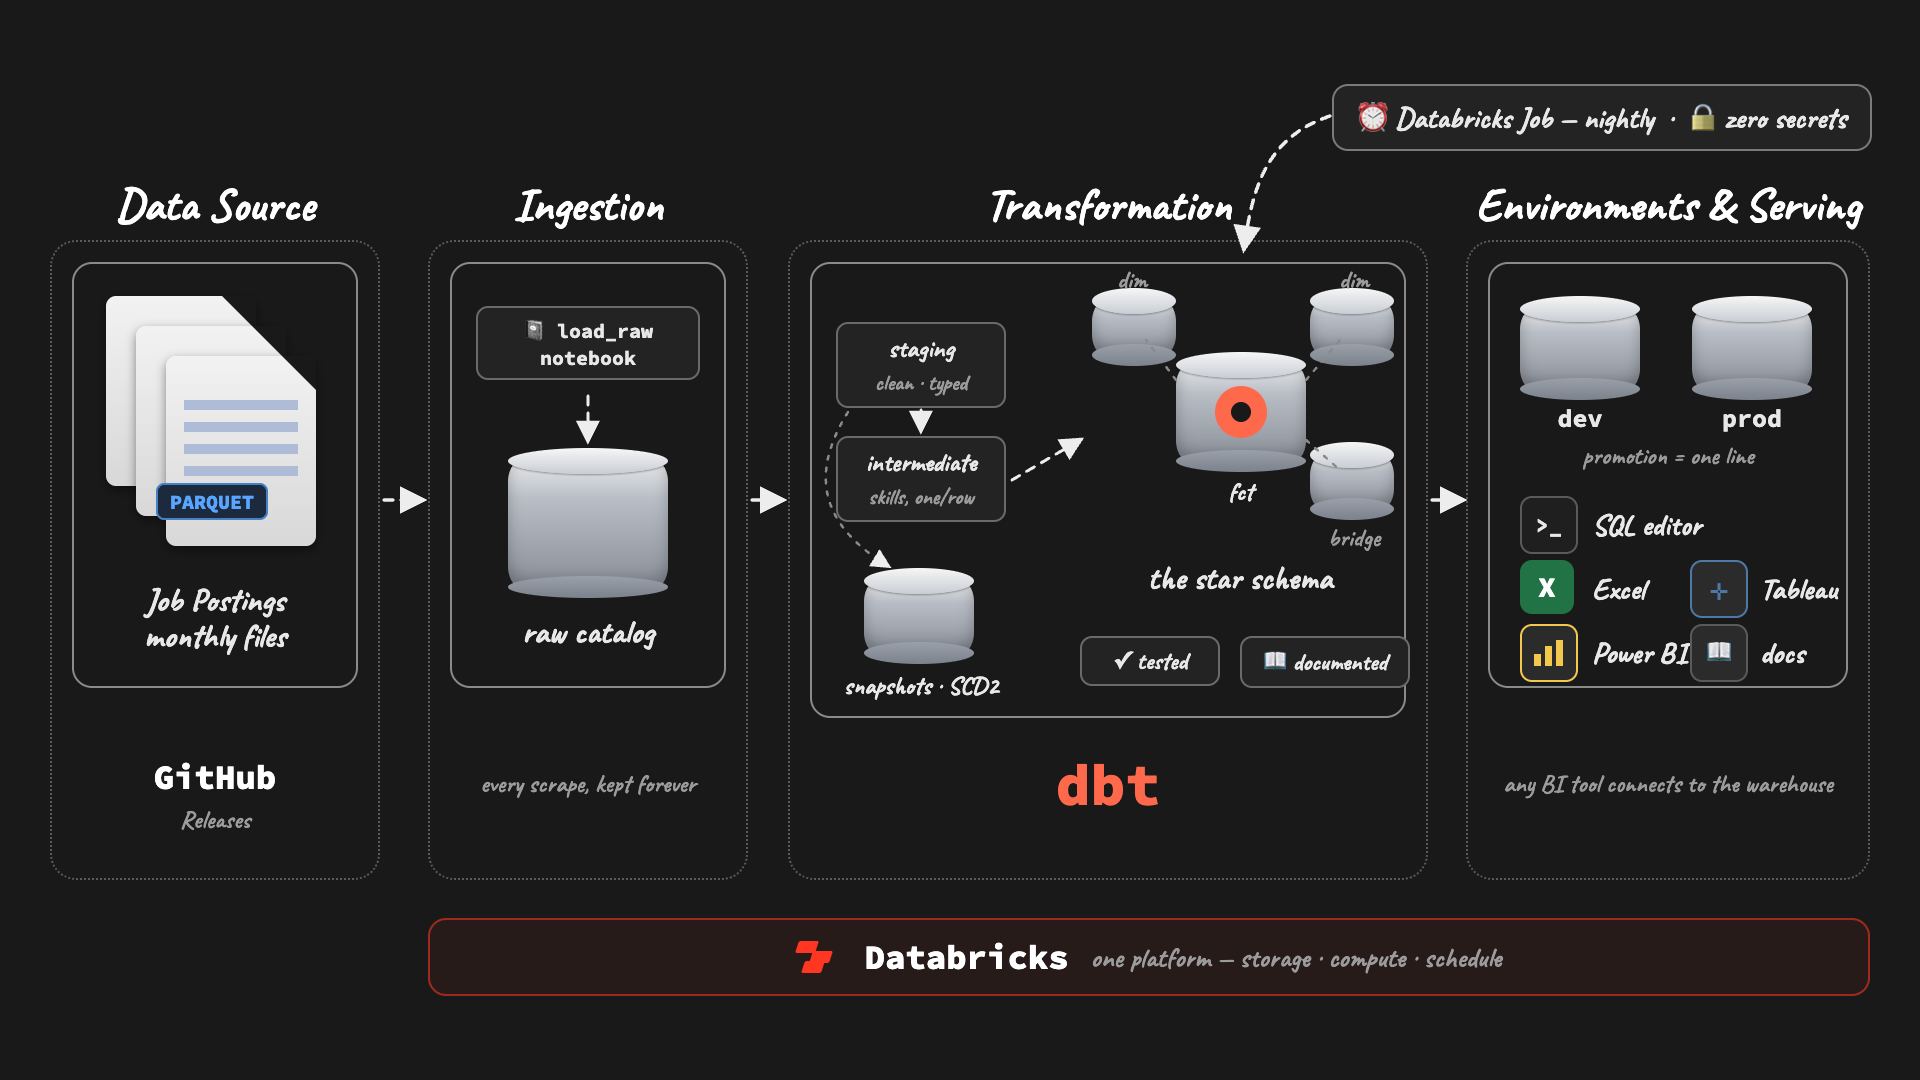
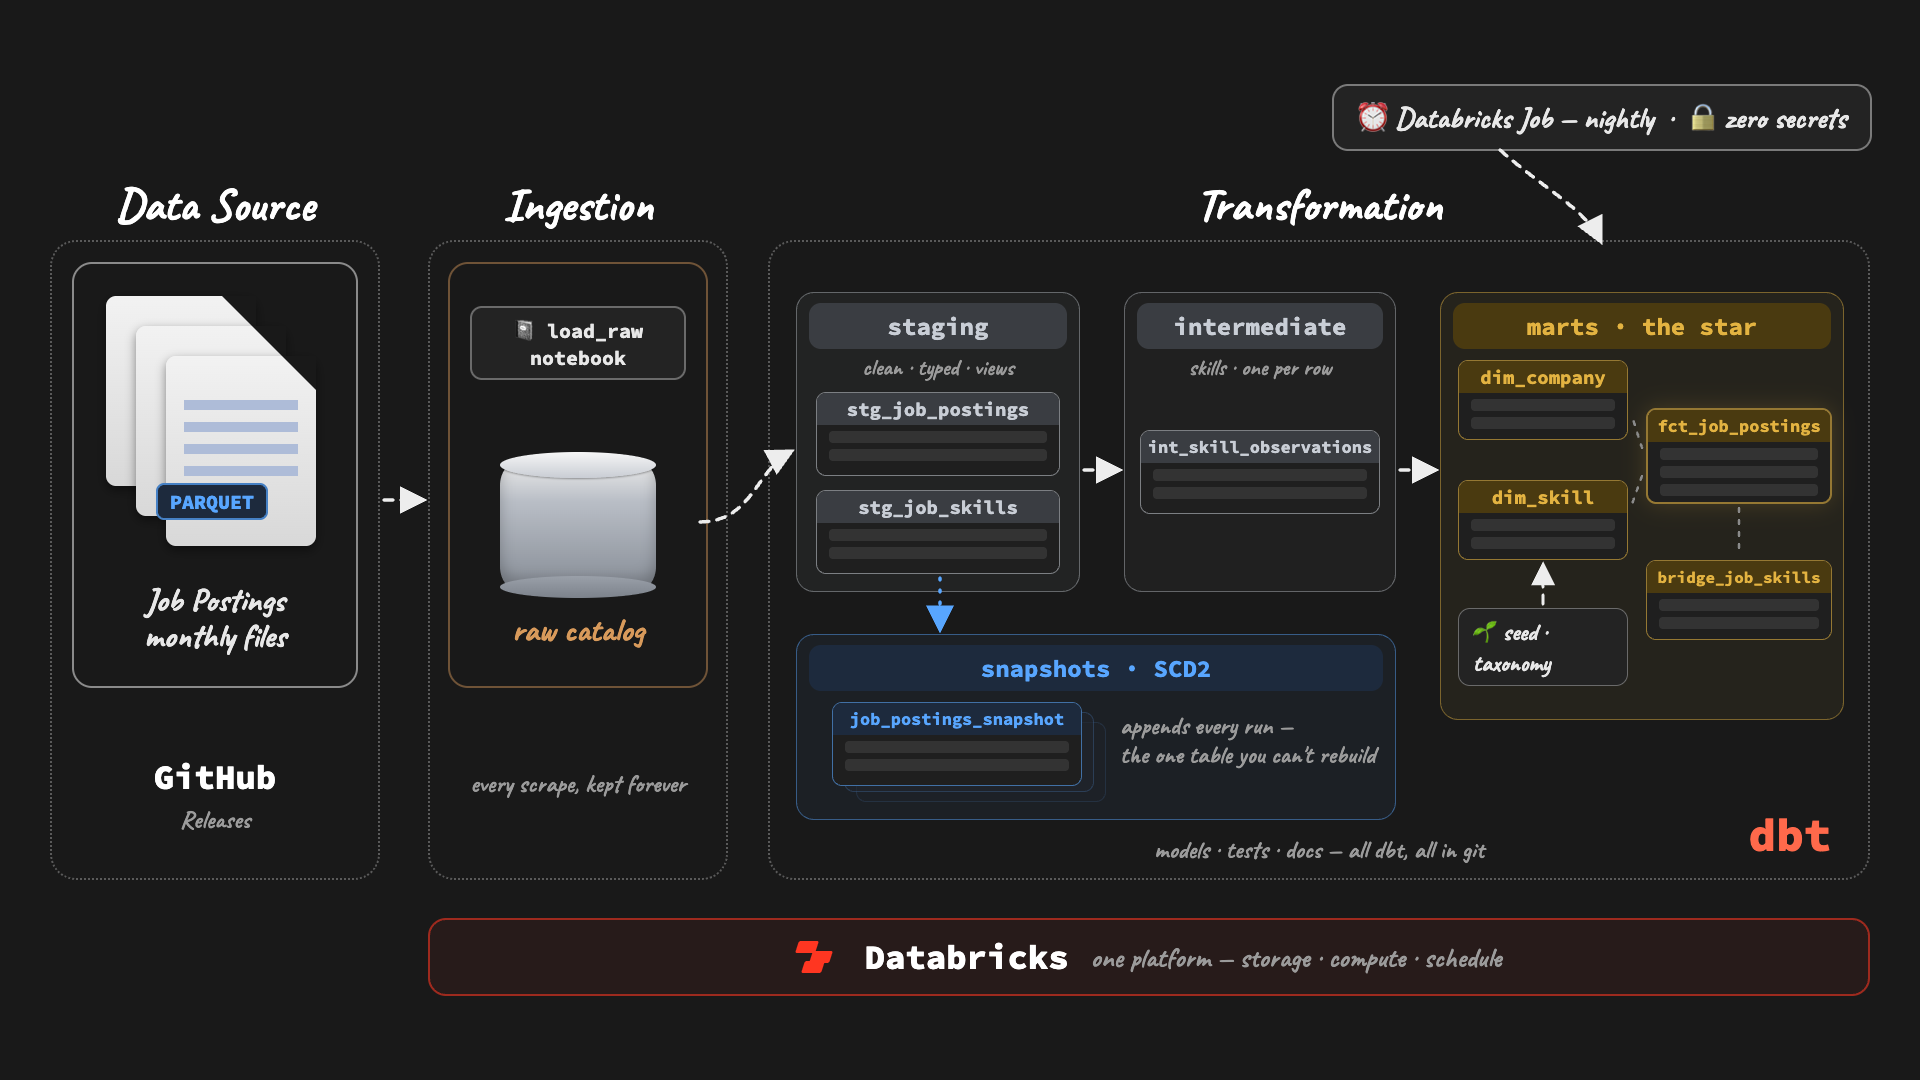
P2 pipeline diagram v2 (Luke): serving zone cut, Transformation built out — three medallion-hinted tier boxes (silver staging/int, gold marts w/ drawn star + seed→dim_skill), TABLE glyphs replace cylinders (cylinder = raw catalog only), snapshots strip w/ stacked glyph + blue history arrow

diff --git a/resources/diagrams/4.02_p2_pipeline.html b/resources/diagrams/4.02_p2_pipeline.html
@@ -9,7 +9,10 @@
   :root{
     --bg:#191919; --line:#4a4a4a;
     --text:#E8E8E8; --muted:#9B9B9B; --faint:#6B6B6B;
-    --blue:#58A6FF; --dbt:#FF694B; --dbx:#FF3621; --ok:#57AB5A;
+    --blue:#58A6FF; --dbt:#FF694B; --dbx:#FF3621;
+    --bronzeT:#D89A5B; --bronzeB:#4a2f15;
+    --silverT:#C9CED6; --silverB:#3a3d42;
+    --goldT:#E3B341;  --goldB:#4a3a10;
     --mono:'Source Code Pro',ui-monospace,'SF Mono',Menlo,Consolas,monospace;
     --hand:'Caveat',cursive;
   }
@@ -20,7 +23,7 @@
   .zinner{position:absolute;box-sizing:border-box;border:2px solid #8a8a8a;border-radius:20px}
   .hlbl{position:absolute;text-align:center;font-family:var(--hand);font-weight:700;font-size:33px;color:var(--text);line-height:1.1}
   .hcap{position:absolute;text-align:center;font-family:var(--hand);font-weight:600;font-size:25px;color:var(--muted);line-height:1.15}
-  /* glossy cylinder */
+  /* glossy cylinder — databases only */
   .cyl{position:absolute}
   .cyl .body{position:absolute;left:0;right:0;top:12px;bottom:10px;border-radius:14px/22px;
     background:linear-gradient(180deg,#e8e8e8 0%,#b9bec6 30%,#8f959e 90%);box-shadow:inset 0 -8px 14px rgba(0,0,0,.25)}
@@ -28,9 +31,6 @@
     background:linear-gradient(180deg,#f6f6f6,#c9cdd4);box-shadow:0 1px 2px rgba(0,0,0,.35)}
   .cyl .bot{position:absolute;left:0;right:0;bottom:0;height:22px;border-radius:50%;
     background:linear-gradient(180deg,#9aa0a9,#7c828b)}
-  .cyl .dot{position:absolute;left:50%;top:50%;transform:translate(-50%,-50%);border-radius:50%;
-    background:var(--dbt);display:flex;align-items:center;justify-content:center}
-  .cyl .dot i{display:block;background:#191919;border-radius:50%}
   /* parquet file glyph */
   .pfile{position:absolute;width:150px;height:190px;background:linear-gradient(180deg,#f2f2f2,#d8d8d8);
     border-radius:10px;box-shadow:0 4px 10px rgba(0,0,0,.45)}
@@ -40,14 +40,25 @@
     background:repeating-linear-gradient(180deg,#aebcd8 0 10px,transparent 10px 22px)}
   .pfile .tag{position:absolute;left:-10px;bottom:26px;background:#1d2a3d;border:2px solid rgba(88,166,255,.7);
     color:var(--blue);font-family:var(--mono);font-weight:800;font-size:20px;padding:4px 12px;border-radius:8px}
-  /* small chips */
-  .chip{position:absolute;box-sizing:border-box;border-radius:12px;padding:8px 16px;text-align:center;
-    font-family:var(--hand);font-size:26px;font-weight:700;color:var(--text);background:#232323;border:2px solid #6a6a6a}
-  .chip.code{font-family:var(--mono);font-size:20px;font-weight:700}
-  /* serving marks */
-  .mark{position:absolute;width:54px;height:54px;border-radius:12px;display:flex;align-items:center;justify-content:center;
-    font-family:var(--mono);font-weight:800;font-size:28px}
-  .srow{position:absolute;font-family:var(--hand);font-size:30px;font-weight:700;color:var(--text)}
+  /* tier boxes (medallion hint) */
+  .tier{position:absolute;box-sizing:border-box;border-radius:18px}
+  .tier .hdr{position:absolute;left:12px;right:12px;top:10px;height:46px;border-radius:12px;
+    display:flex;align-items:center;justify-content:center;gap:10px;
+    font-family:var(--mono);font-size:24px;font-weight:700}
+  .tier .sub{position:absolute;left:12px;right:12px;top:60px;text-align:center;
+    font-family:var(--hand);font-size:23px;font-weight:600;color:var(--muted)}
+  /* table glyph — tables, not databases */
+  .tbl{position:absolute;box-sizing:border-box;border-radius:10px;background:#1f1f1f;overflow:hidden}
+  .tbl .name{height:32px;display:flex;align-items:center;justify-content:center;
+    font-family:var(--mono);font-size:19px;font-weight:700}
+  .tbl .r{height:12px;margin:6px 12px 0 12px;border-radius:4px;background:#333}
+  .tbl.silver{border:1.5px solid rgba(201,206,214,.55)} .tbl.silver .name{background:var(--silverB);color:var(--silverT)}
+  .tbl.gold{border:1.5px solid rgba(227,179,65,.6)} .tbl.gold .name{background:var(--goldB);color:var(--goldT)}
+  .tbl.fct{border-width:2.5px;box-shadow:0 0 22px rgba(227,179,65,.18)}
+  .tbl.snap{border:1.5px solid rgba(88,166,255,.6)} .tbl.snap .name{background:#1d2a3d;color:var(--blue)}
+  .ghosttbl{position:absolute;box-sizing:border-box;border-radius:10px;border:1.5px solid rgba(88,166,255,.35);background:#20242c}
+  .seed{position:absolute;box-sizing:border-box;border-radius:12px;padding:7px 14px;background:#232323;
+    border:1.5px solid #6a6a6a;font-family:var(--hand);font-size:24px;font-weight:700;color:var(--text)}
   /* lockups */
   .dbtlogo{position:absolute;text-align:center;font-family:var(--mono);font-weight:800;color:var(--dbt)}
   .ghlogo{position:absolute;text-align:center;font-family:var(--mono);font-weight:800;color:#fff}
@@ -57,6 +68,9 @@
   .bricks b{position:absolute;width:20px;height:12px;background:var(--dbx);transform:skewX(-18deg);border-radius:2px}
   .jobchip{position:absolute;box-sizing:border-box;border-radius:16px;padding:12px 24px;background:#232323;
     border:2px solid #7a7a7a;font-family:var(--hand);font-size:30px;font-weight:700;color:var(--text)}
+  .chip{position:absolute;box-sizing:border-box;border-radius:12px;padding:8px 16px;text-align:center;
+    font-family:var(--hand);font-size:26px;font-weight:700;color:var(--text);background:#232323;border:2px solid #6a6a6a}
+  .chip.code{font-family:var(--mono);font-size:20px;font-weight:700}
   svg.art{position:absolute;inset:0;pointer-events:none}
 </style>
 </head>
@@ -78,68 +92,58 @@
   <div class="hcap" style="left:50px;top:806px;width:330px">Releases</div>
 
   <!-- ============ ZONE 2 : Ingestion ============ -->
-  <div class="ztitle" style="left:428px;top:176px;width:320px">Ingestion</div>
-  <div class="zouter" style="left:428px;top:240px;width:320px;height:640px"></div>
-  <div class="zinner" style="left:450px;top:262px;width:276px;height:426px"></div>
-  <div class="chip code" style="left:476px;top:306px;width:224px">📓 load_raw<br>notebook</div>
-  <div class="cyl" style="left:508px;top:448px;width:160px;height:150px">
+  <div class="ztitle" style="left:428px;top:176px;width:300px">Ingestion</div>
+  <div class="zouter" style="left:428px;top:240px;width:300px;height:640px"></div>
+  <div class="zinner" style="left:448px;top:262px;width:260px;height:426px;border-color:rgba(216,154,91,.45)"></div>
+  <div class="chip code" style="left:470px;top:306px;width:216px">📓 load_raw<br>notebook</div>
+  <div class="cyl" style="left:500px;top:452px;width:156px;height:146px">
     <div class="body"></div><div class="top"></div><div class="bot"></div>
   </div>
-  <div class="hlbl" style="left:450px;top:614px;width:276px">raw catalog</div>
-  <div class="hcap" style="left:428px;top:770px;width:320px">every scrape, kept forever</div>
+  <div class="hlbl" style="left:448px;top:612px;width:260px;color:var(--bronzeT)">raw catalog</div>
+  <div class="hcap" style="left:428px;top:770px;width:300px">every scrape, kept forever</div>
 
   <!-- ============ ZONE 3 : Transformation ============ -->
-  <div class="ztitle" style="left:788px;top:176px;width:640px">Transformation</div>
-  <div class="zouter" style="left:788px;top:240px;width:640px;height:640px"></div>
-  <div class="zinner" style="left:810px;top:262px;width:596px;height:456px"></div>
-  <!-- staging → int -->
-  <div class="chip" style="left:836px;top:322px;width:170px">staging<br><span style="font-size:22px;color:var(--muted)">clean · typed</span></div>
-  <div class="chip" style="left:836px;top:436px;width:170px">intermediate<br><span style="font-size:22px;color:var(--muted)">skills, one/row</span></div>
-  <!-- star cluster -->
-  <div class="cyl" style="left:1176px;top:352px;width:130px;height:120px">
-    <div class="body"></div><div class="top"></div><div class="bot"></div>
-    <div class="dot" style="width:52px;height:52px"><i style="width:20px;height:20px"></i></div>
-  </div>
-  <div class="hcap" style="left:1156px;top:478px;width:170px;font-weight:700;color:var(--text)">fct</div>
-  <div class="cyl" style="left:1092px;top:288px;width:84px;height:78px"><div class="body"></div><div class="top"></div><div class="bot"></div></div>
-  <div class="cyl" style="left:1310px;top:288px;width:84px;height:78px"><div class="body"></div><div class="top"></div><div class="bot"></div></div>
-  <div class="cyl" style="left:1310px;top:442px;width:84px;height:78px"><div class="body"></div><div class="top"></div><div class="bot"></div></div>
-  <div class="hcap" style="left:1072px;top:266px;width:120px">dim</div>
-  <div class="hcap" style="left:1294px;top:266px;width:120px">dim</div>
-  <div class="hcap" style="left:1294px;top:524px;width:120px">bridge</div>
-  <div class="hlbl" style="left:1080px;top:560px;width:320px">the star schema</div>
-  <!-- snapshot + quality chips -->
-  <div class="cyl" style="left:864px;top:568px;width:110px;height:96px"><div class="body"></div><div class="top"></div><div class="bot"></div></div>
-  <div class="hcap" style="left:806px;top:672px;width:230px;font-weight:700;color:var(--text)">snapshots · SCD2</div>
-  <div class="chip" style="left:1080px;top:636px;width:140px;font-size:24px">✓ tested</div>
-  <div class="chip" style="left:1240px;top:636px;width:170px;font-size:24px">📖 documented</div>
-  <div class="dbtlogo" style="left:788px;top:748px;width:640px;font-size:58px">dbt</div>
+  <div class="ztitle" style="left:768px;top:176px;width:1102px">Transformation</div>
+  <div class="zouter" style="left:768px;top:240px;width:1102px;height:640px"></div>
+  <div class="dbtlogo" style="left:1730px;top:806px;width:120px;font-size:46px">dbt</div>
 
-  <!-- ============ ZONE 4 : Environments & Serving ============ -->
-  <div class="ztitle" style="left:1466px;top:176px;width:404px">Environments &amp; Serving</div>
-  <div class="zouter" style="left:1466px;top:240px;width:404px;height:640px"></div>
-  <div class="zinner" style="left:1488px;top:262px;width:360px;height:426px"></div>
-  <div class="cyl" style="left:1520px;top:296px;width:120px;height:104px"><div class="body"></div><div class="top"></div><div class="bot"></div></div>
-  <div class="cyl" style="left:1692px;top:296px;width:120px;height:104px"><div class="body"></div><div class="top"></div><div class="bot"></div></div>
-  <div class="hcap" style="left:1520px;top:404px;width:120px;font-family:var(--mono);font-weight:700;color:var(--text)">dev</div>
-  <div class="hcap" style="left:1692px;top:404px;width:120px;font-family:var(--mono);font-weight:700;color:var(--text)">prod</div>
-  <div class="hcap" style="left:1488px;top:442px;width:360px">promotion = one line</div>
-  <!-- serving rows -->
-  <div class="mark" style="left:1520px;top:496px;background:#1f1f1f;border:2px solid #5a5a5a;color:var(--text);font-size:22px">&gt;_</div>
-  <div class="srow" style="left:1592px;top:506px">SQL editor</div>
-  <div class="mark" style="left:1520px;top:560px;background:#217346;color:#fff">X</div>
-  <div class="srow" style="left:1592px;top:570px">Excel</div>
-  <div class="mark" style="left:1520px;top:624px;background:#2b2b2b;border:2px solid #F2C94C">
-    <svg width="34" height="30"><rect x="2" y="16" width="7" height="12" fill="#F2C94C"/><rect x="13" y="8" width="7" height="20" fill="#F2C94C"/><rect x="24" y="2" width="7" height="26" fill="#F2C94C"/></svg>
+  <!-- silver: staging -->
+  <div class="tier" style="left:796px;top:292px;width:284px;height:300px;background:rgba(201,206,214,.05);border:1.5px solid rgba(201,206,214,.4)">
+    <div class="hdr" style="background:var(--silverB);color:var(--silverT)">staging</div>
+    <div class="sub">clean · typed · views</div>
   </div>
-  <div class="srow" style="left:1592px;top:634px">Power BI</div>
-  <div class="mark" style="left:1690px;top:560px;background:#2b2b2b;border:2px solid #4E79A7;color:#4E79A7;font-size:30px">✛</div>
-  <div class="srow" style="left:1760px;top:570px">Tableau</div>
-  <div class="mark" style="left:1690px;top:624px;background:#2b2b2b;border:2px solid #5a5a5a;font-size:26px">📖</div>
-  <div class="srow" style="left:1760px;top:634px">docs</div>
-  <div class="hcap" style="left:1466px;top:770px;width:404px">any BI tool connects to the warehouse</div>
+  <div class="tbl silver" style="left:816px;top:392px;width:244px;height:84px"><div class="name">stg_job_postings</div><div class="r"></div><div class="r"></div></div>
+  <div class="tbl silver" style="left:816px;top:490px;width:244px;height:84px"><div class="name">stg_job_skills</div><div class="r"></div><div class="r"></div></div>
 
-  <!-- ============ Databricks ribbon (platform spans it all) ============ -->
+  <!-- silver: intermediate -->
+  <div class="tier" style="left:1124px;top:292px;width:272px;height:300px;background:rgba(201,206,214,.04);border:1.5px solid rgba(201,206,214,.4)">
+    <div class="hdr" style="background:var(--silverB);color:var(--silverT)">intermediate</div>
+    <div class="sub">skills · one per row</div>
+  </div>
+  <div class="tbl silver" style="left:1140px;top:430px;width:240px;height:84px"><div class="name" style="font-size:17px">int_skill_observations</div><div class="r"></div><div class="r"></div></div>
+
+  <!-- gold: marts (the star) -->
+  <div class="tier" style="left:1440px;top:292px;width:404px;height:428px;background:rgba(227,179,65,.06);border:1.5px solid rgba(227,179,65,.45)">
+    <div class="hdr" style="background:var(--goldB);color:var(--goldT)">marts · the star</div>
+  </div>
+  <div class="tbl gold" style="left:1458px;top:360px;width:170px;height:80px"><div class="name">dim_company</div><div class="r"></div><div class="r"></div></div>
+  <div class="tbl gold" style="left:1458px;top:480px;width:170px;height:80px"><div class="name">dim_skill</div><div class="r"></div><div class="r"></div></div>
+  <div class="tbl gold fct" style="left:1646px;top:408px;width:186px;height:96px"><div class="name" style="font-size:17px">fct_job_postings</div><div class="r"></div><div class="r"></div><div class="r"></div></div>
+  <div class="tbl gold" style="left:1646px;top:560px;width:186px;height:80px"><div class="name" style="font-size:16px">bridge_job_skills</div><div class="r"></div><div class="r"></div></div>
+  <div class="seed" style="left:1458px;top:608px;width:170px">🌱 seed · taxonomy</div>
+
+  <!-- snapshots strip -->
+  <div class="tier" style="left:796px;top:634px;width:600px;height:186px;background:rgba(88,166,255,.05);border:1.5px solid rgba(88,166,255,.45)">
+    <div class="hdr" style="background:#1d2a3d;color:var(--blue)">snapshots · SCD2</div>
+  </div>
+  <div class="ghosttbl" style="left:856px;top:722px;width:250px;height:80px;opacity:.35"></div>
+  <div class="ghosttbl" style="left:844px;top:712px;width:250px;height:80px;opacity:.6"></div>
+  <div class="tbl snap" style="left:832px;top:702px;width:250px;height:84px"><div class="name" style="font-size:17px">job_postings_snapshot</div><div class="r"></div><div class="r"></div></div>
+  <div class="hcap" style="left:1120px;top:712px;width:260px;text-align:left">appends every run —<br>the one table you can't rebuild</div>
+
+  <div class="hcap" style="left:768px;top:836px;width:1102px">models · tests · docs — all dbt, all in git</div>
+
+  <!-- ============ Databricks ribbon ============ -->
   <div class="ribbon" style="left:428px;top:918px;width:1442px;height:78px">
     <span class="bricks"><b style="left:0;top:4px"></b><b style="left:14px;top:14px"></b><b style="left:6px;top:24px"></b></span>
     <span style="font-family:var(--mono);font-weight:800;font-size:34px;color:#fff">Databricks</span>
@@ -152,24 +156,28 @@
       <marker id="ahw" viewBox="0 0 10 10" refX="8" refY="5" markerWidth="8" markerHeight="8" orient="auto-start-reverse">
         <path d="M 0 0 L 10 5 L 0 10 z" fill="#EDEDED"/>
       </marker>
+      <marker id="ahb" viewBox="0 0 10 10" refX="8" refY="5" markerWidth="8" markerHeight="8" orient="auto-start-reverse">
+        <path d="M 0 0 L 10 5 L 0 10 z" fill="#58A6FF"/>
+      </marker>
     </defs>
-    <!-- zone flow -->
+    <!-- source → ingestion -->
     <path d="M 384 500 L 422 500" fill="none" stroke="#EDEDED" stroke-width="3.5" stroke-dasharray="9 8" stroke-linecap="round" marker-end="url(#ahw)"/>
-    <path d="M 752 500 L 782 500" fill="none" stroke="#EDEDED" stroke-width="3.5" stroke-dasharray="9 8" stroke-linecap="round" marker-end="url(#ahw)"/>
-    <path d="M 1432 500 L 1462 500" fill="none" stroke="#EDEDED" stroke-width="3.5" stroke-dasharray="9 8" stroke-linecap="round" marker-end="url(#ahw)"/>
-    <!-- inside zone 2: notebook → raw -->
-    <path d="M 588 396 L 588 440" fill="none" stroke="#EDEDED" stroke-width="3" stroke-dasharray="9 8" stroke-linecap="round" marker-end="url(#ahw)"/>
-    <!-- inside zone 3: staging → int → star -->
-    <path d="M 921 410 L 921 430" fill="none" stroke="#EDEDED" stroke-width="3" stroke-dasharray="9 8" stroke-linecap="round" marker-end="url(#ahw)"/>
-    <path d="M 1012 480 L 1080 440" fill="none" stroke="#EDEDED" stroke-width="3" stroke-dasharray="9 8" stroke-linecap="round" marker-end="url(#ahw)"/>
-    <!-- star joins (dashed, faint) -->
-    <path d="M 1176 380 L 1146 340" fill="none" stroke="#8a8a8a" stroke-width="2.5" stroke-dasharray="4 8" stroke-linecap="round"/>
-    <path d="M 1306 380 L 1340 340" fill="none" stroke="#8a8a8a" stroke-width="2.5" stroke-dasharray="4 8" stroke-linecap="round"/>
-    <path d="M 1306 440 L 1340 470" fill="none" stroke="#8a8a8a" stroke-width="2.5" stroke-dasharray="4 8" stroke-linecap="round"/>
-    <!-- staging → snapshot -->
-    <path d="M 848 412 C 812 470, 816 522, 888 566" fill="none" stroke="#8a8a8a" stroke-width="2.5" stroke-dasharray="4 8" stroke-linecap="round" marker-end="url(#ahw)"/>
-    <!-- the nightly arc: job chip → into the dbt zone -->
-    <path d="M 1330 116 C 1264 138, 1252 192, 1244 248" fill="none" stroke="#EDEDED" stroke-width="3.5" stroke-dasharray="9 8" stroke-linecap="round" marker-end="url(#ahw)"/>
+    <!-- raw → staging -->
+    <path d="M 700 522 C 752 522, 756 470, 790 452" fill="none" stroke="#EDEDED" stroke-width="3.5" stroke-dasharray="9 8" stroke-linecap="round" marker-end="url(#ahw)"/>
+    <!-- staging → intermediate -->
+    <path d="M 1084 470 L 1118 470" fill="none" stroke="#EDEDED" stroke-width="3.5" stroke-dasharray="9 8" stroke-linecap="round" marker-end="url(#ahw)"/>
+    <!-- intermediate → marts -->
+    <path d="M 1400 470 L 1434 470" fill="none" stroke="#EDEDED" stroke-width="3.5" stroke-dasharray="9 8" stroke-linecap="round" marker-end="url(#ahw)"/>
+    <!-- staging → snapshots (blue: the history path) -->
+    <path d="M 940 578 L 940 628" fill="none" stroke="#58A6FF" stroke-width="3.5" stroke-dasharray="2 10" stroke-linecap="round" marker-end="url(#ahb)"/>
+    <!-- star joins (dashed) -->
+    <path d="M 1642 448 L 1632 416" fill="none" stroke="#8a8a8a" stroke-width="2.5" stroke-dasharray="4 8" stroke-linecap="round"/>
+    <path d="M 1642 476 L 1632 504" fill="none" stroke="#8a8a8a" stroke-width="2.5" stroke-dasharray="4 8" stroke-linecap="round"/>
+    <path d="M 1739 508 L 1739 554" fill="none" stroke="#8a8a8a" stroke-width="2.5" stroke-dasharray="4 8" stroke-linecap="round"/>
+    <!-- seed → dim_skill -->
+    <path d="M 1543 604 L 1543 566" fill="none" stroke="#EDEDED" stroke-width="3" stroke-dasharray="9 8" stroke-linecap="round" marker-end="url(#ahw)"/>
+    <!-- nightly arc → into the zone -->
+    <path d="M 1500 150 C 1548 192, 1584 208, 1600 240" fill="none" stroke="#EDEDED" stroke-width="3.5" stroke-dasharray="9 8" stroke-linecap="round" marker-end="url(#ahw)"/>
   </svg>
 
 </div>
